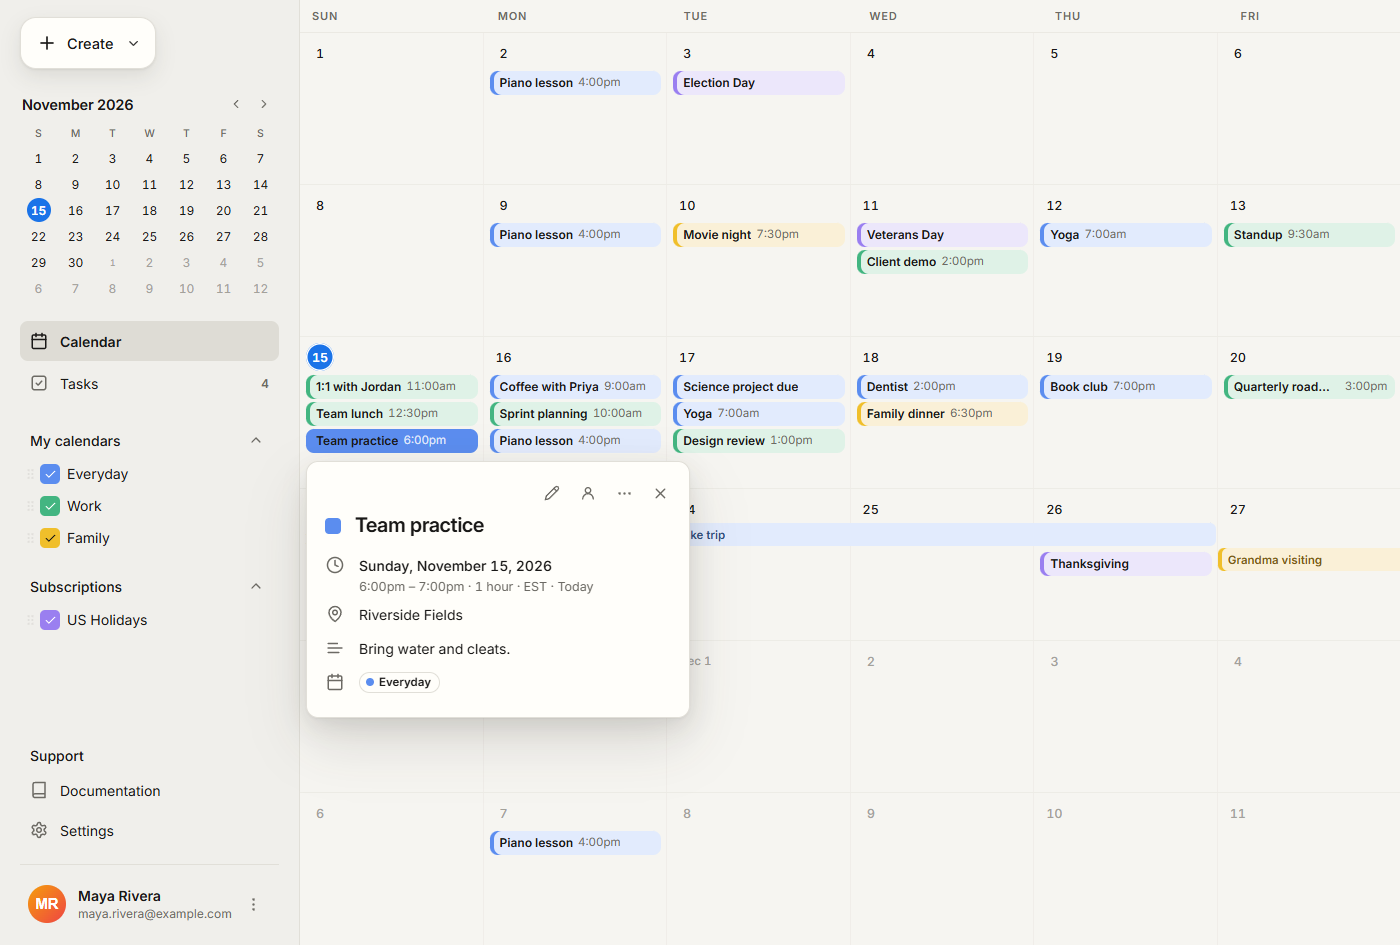
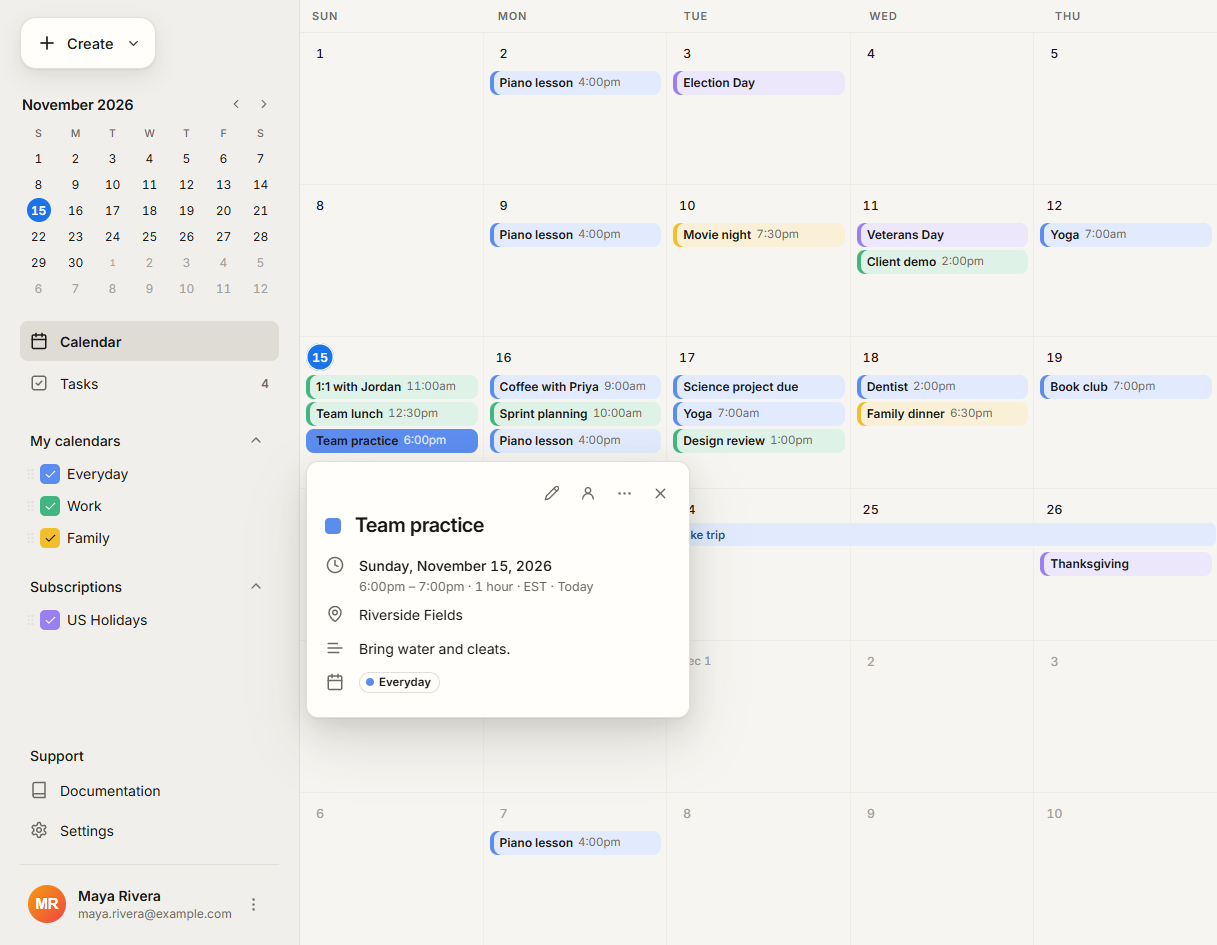
Content polish: hero-weight headlines, larger card titles, image separators, hover lift, event crop that fills the tall card

diff --git a/site/landing.css b/site/landing.css
@@ -120,7 +120,7 @@ button{font:inherit;color:inherit}
 /* ---------- sections: one fixed rhythm, one bento system ---------- */
 .sec{margin-top:var(--gap);scroll-margin-top:80px}
 .sec-head{text-align:center;margin-bottom:48px}
-.sec h2{font-size:clamp(32px,4vw,48px);font-weight:700;letter-spacing:-0.03em;line-height:1.08;text-wrap:balance}
+.sec h2{font-size:clamp(34px,4.4vw,56px);font-weight:600;letter-spacing:-0.03em;line-height:1.08;text-wrap:balance}
 .sec h2 em{font-family:inherit;font-style:italic}
 .sec h3{font-size:18px;font-weight:700;letter-spacing:-0.01em;line-height:1.3}
 .eyebrow{display:inline-flex;align-items:center;gap:8px;margin-bottom:16px;font-size:13px;font-weight:600;letter-spacing:.12em;line-height:1;text-transform:uppercase;color:var(--muted)}
@@ -129,12 +129,13 @@ button{font:inherit;color:inherit}
 
 /* the bento card: one radius, one hairline, no shadow */
 .bento{display:grid;gap:16px}
-.bc{position:relative;display:flex;flex-direction:column;min-width:0;margin:0;background:var(--theme-card);border:1px solid var(--line);border-radius:20px;overflow:hidden}
-.bc .vis{position:relative;flex:none;aspect-ratio:var(--ar,1.6);overflow:hidden}
+.bc{transition:translate 200ms var(--ease),border-color 200ms linear,background-color 200ms linear;position:relative;display:flex;flex-direction:column;min-width:0;margin:0;background:var(--theme-card);border:1px solid var(--line);border-radius:20px;overflow:hidden}
+.bc .vis{position:relative;flex:none;aspect-ratio:var(--ar,1.6);overflow:hidden;border-bottom:1px solid var(--line)}
+.bc:hover{border-color:var(--ghost);translate:0 -1px}
 .bc .vis img{position:absolute;inset:0;width:100%;height:100%;object-fit:cover;object-position:50% 0;display:block}
-.bc .txt{padding:20px 24px 24px}
-.bc h3{margin:0 0 6px}
-.bc p{margin:0;color:var(--muted);font-size:15.5px;line-height:1.5}
+.bc .txt{padding:22px 26px 26px}
+.bc h3{margin:0 0 8px;font-size:20px;font-weight:600;letter-spacing:-0.02em}
+.bc p{margin:0;color:var(--muted);font-size:16px;line-height:1.55}
 
 /* 1. features: one tall card, two stacked */
 .bento-feat{grid-template-columns:7fr 5fr;grid-template-rows:1fr 1fr}
@@ -199,6 +200,7 @@ button{font:inherit;color:inherit}
 
 /* 8. final CTA */
 .cta{text-align:center}
+.cta h2{font-size:clamp(40px,5.4vw,72px);letter-spacing:-0.035em}
 .cta .btn{margin-top:32px}
 
 /* 9. footer: white in light, black in dark */

diff --git a/index.html b/index.html
@@ -67,7 +67,7 @@
 <section class="sec" id="features"><div class="wrap">
   <div class="sec-head" data-reveal><h2>Plan the day, not the <em>tool</em></h2></div>
   <div class="bento bento-feat" data-reveal data-stagger>
-    <article class="bc tall"><div class="vis" style="--ar:1.481"><img src="assets/screenshots/crop-event.png" alt="Events in Daylight, with an event open" width="1400" height="945" loading="lazy" decoding="async"></div><div class="txt"><h3>Events</h3><p>Add anything in seconds — title, time, place, and a note. Repeating events let you change one day, this and following, or the whole series.</p></div></article>
+    <article class="bc tall"><div class="vis" style="--ar:1.288"><img src="assets/screenshots/crop-event.png" alt="Events in Daylight, with an event open" width="1217" height="945" loading="lazy" decoding="async"></div><div class="txt"><h3>Events</h3><p>Add anything in seconds — title, time, place, and a note. Repeating events let you change one day, this and following, or the whole series.</p></div></article>
     <article class="bc "><div class="vis" style="--ar:2.663"><img src="assets/screenshots/crop-tasks.png" alt="Tasks in Daylight" width="900" height="338" loading="lazy" decoding="async"></div><div class="txt"><h3>Tasks</h3><p>Tasks live inside Daylight, not in another app. Add one, check it off, move on.</p></div></article>
     <article class="bc "><div class="vis" style="--ar:3"><img src="assets/screenshots/crop-reminders.png" alt="Upcoming events in Daylight" width="900" height="300" loading="lazy" decoding="async"></div><div class="txt"><h3>Reminders</h3><p>Set a default reminder for each calendar, so the important things never slip past. Reminders ride along with the event.</p></div></article>
   </div>
